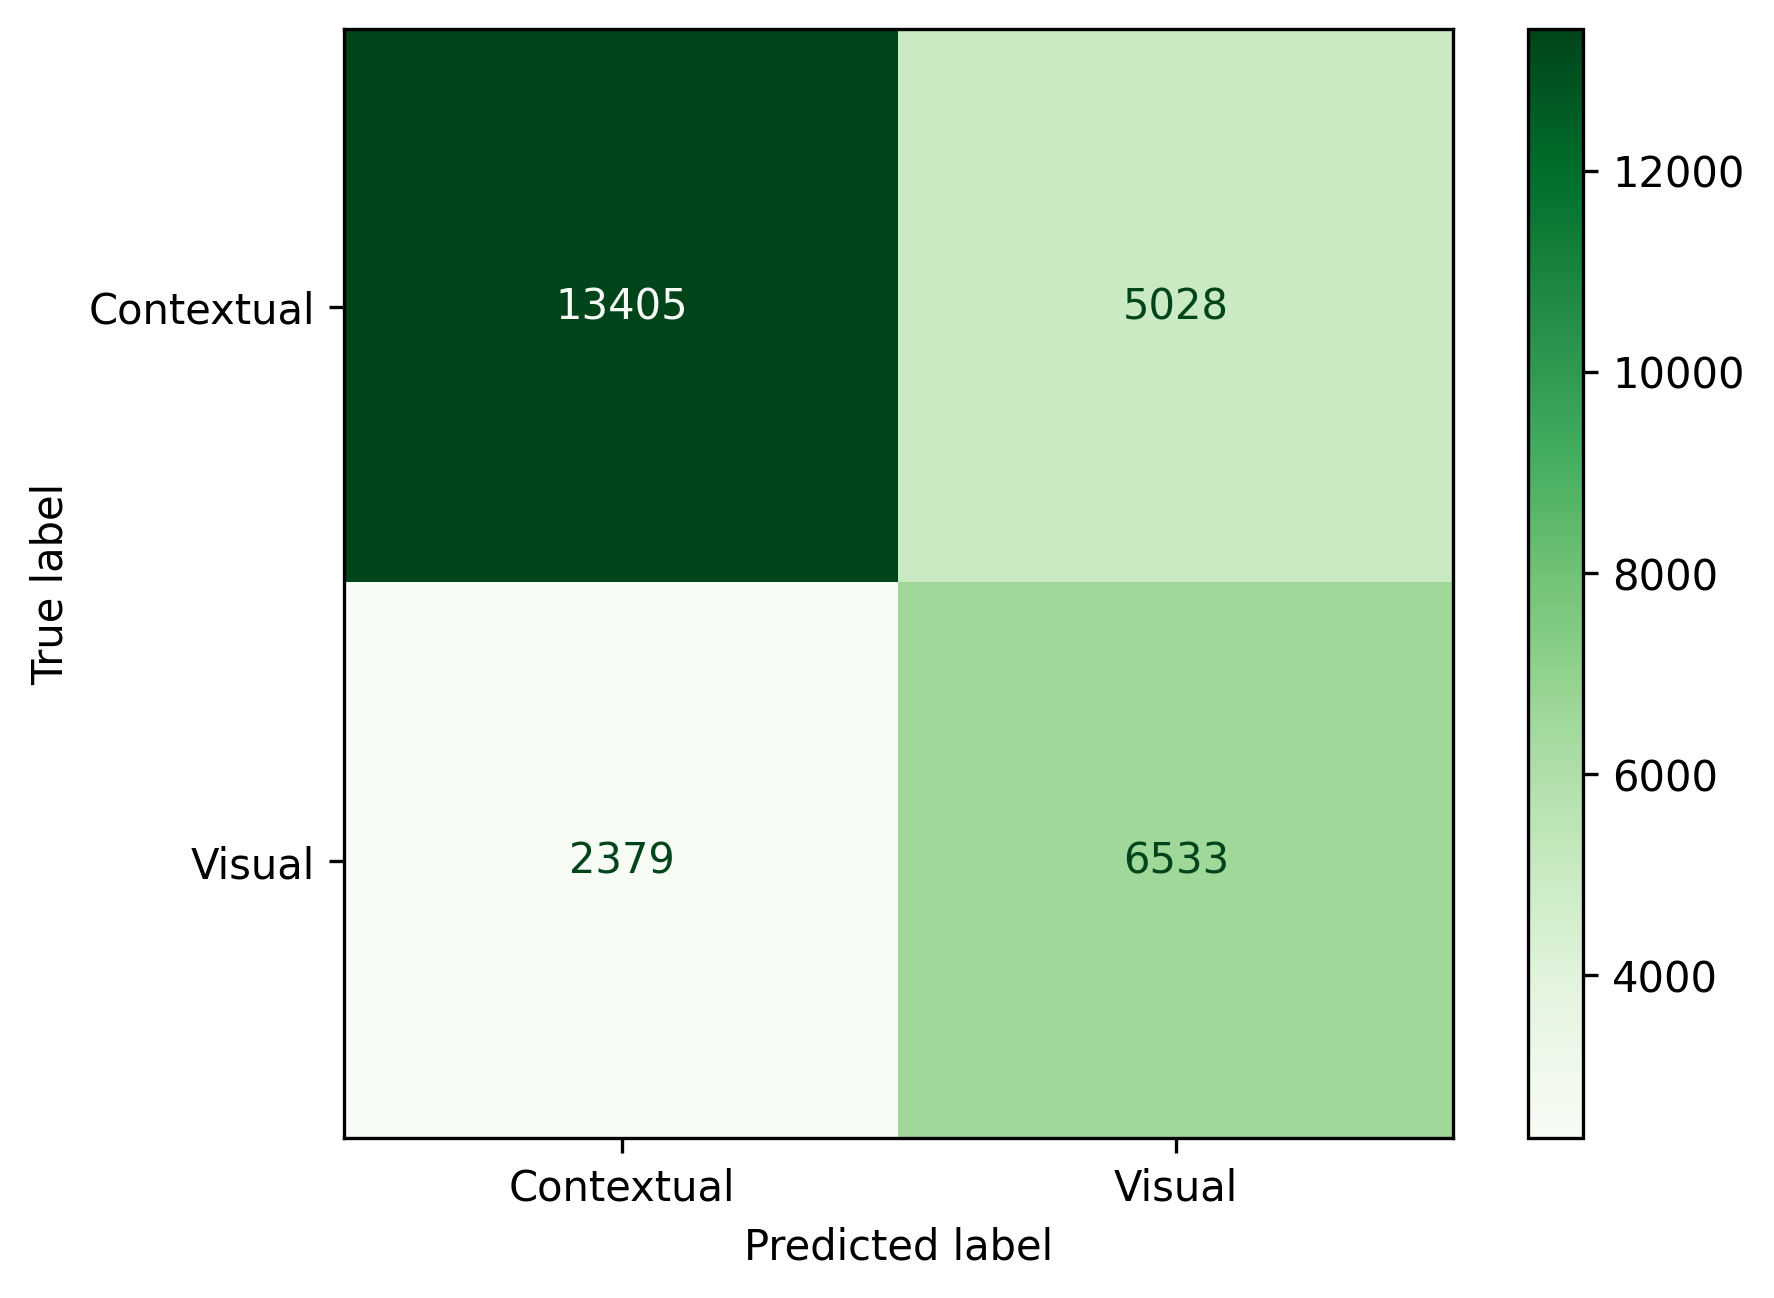
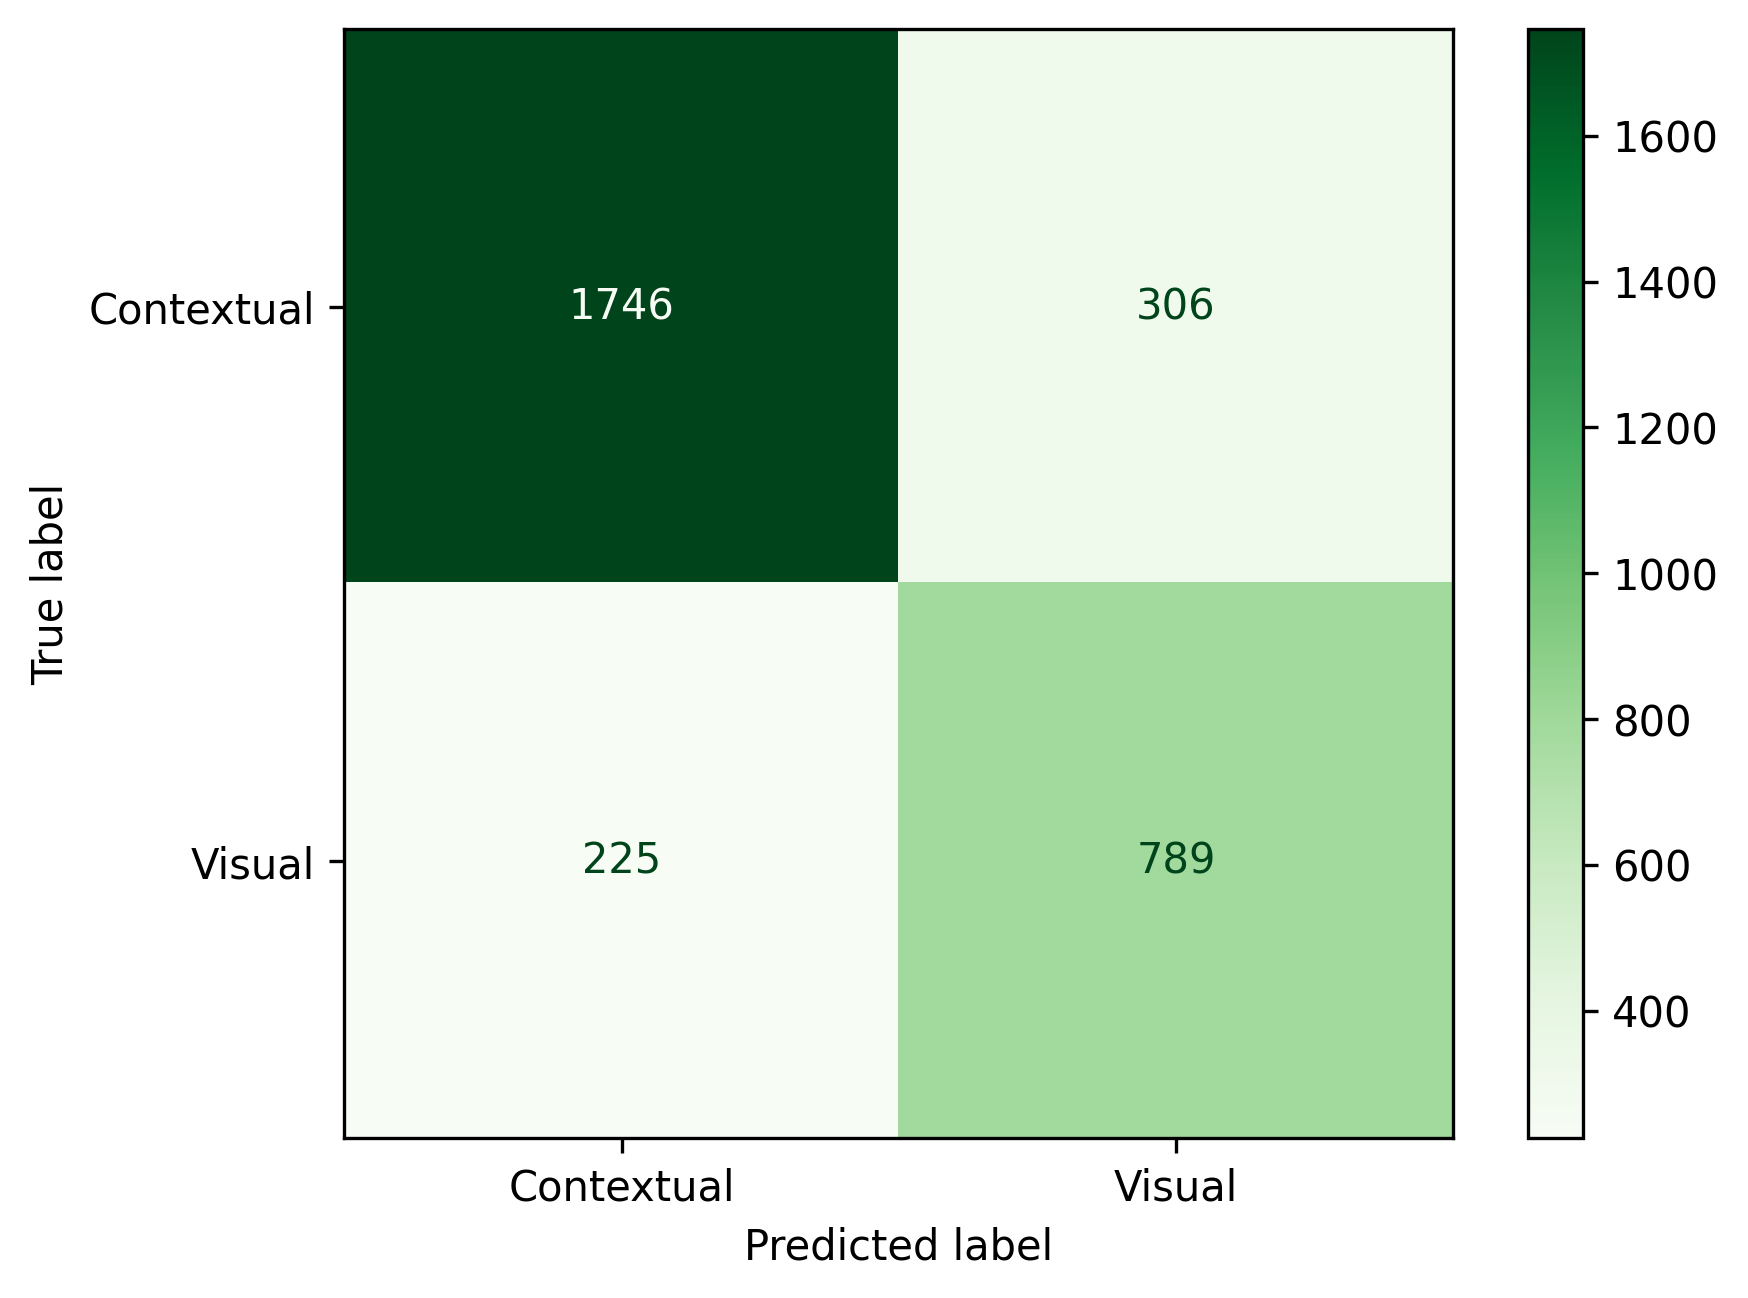
Further classification experiment optimizations, also added baseline for comparison

diff --git a/src/classification_experiment.py b/src/classification_experiment.py
@@ -5,28 +5,39 @@ import sys
 import csv
 import os
 import matplotlib.pyplot as plt
+from VisualContextualClassifier import VisualContextualClassifier
 from tqdm import tqdm
 from sklearn.metrics import f1_score, accuracy_score, confusion_matrix, ConfusionMatrixDisplay
+
+RUN_BASELINE = False # True will also run baseline classifier, False is just LLM
 
 dataset_path = sys.argv[1]
 if not os.path.exists(dataset_path):
    raise OSError(f"Dataset path {dataset_path} does not exist")
 classifier_8B = classifier("meta-llama/Llama-3.1-8B-Instruct", torch_dtype=torch.bfloat16, device_map="auto")
+baseline_classifier = VisualContextualClassifier() if RUN_BASELINE else None
 
 with open(dataset_path, "r", encoding='utf-8') as f:
     dataset = json.load(f)
+dataset = [entry for entry in dataset.values() if entry.get('split') == 'test']
 
 # generate true/pred
 y_true = []
 y_pred = []
-for id, data in tqdm(dataset.items(), desc="Image captions classified"):
+baseline_y_pred = []
+for data in tqdm(dataset, desc="Image captions classified"):
     predictions = classifier_8B.classify(data["visual_sentences"] + data["contextual_sentences"])
     y_true += [1] * len(data["visual_sentences"]) + [0] * len(data["contextual_sentences"])
     y_pred += predictions
+    if RUN_BASELINE:
+        for sentence in data["visual_sentences"] + data["contextual_sentences"]:
+            b_pred = baseline_classifier.predict(sentence)
+            baseline_y_pred.append(1 if max(b_pred, key=b_pred.get) == "visual" else 0)
 
-# eval
+
 output_path = os.path.join("results", "classification_experiment")
 
+# eval
 f1 = f1_score(y_true, y_pred)
 accuracy = accuracy_score(y_true, y_pred)
 with open(os.path.join(output_path, "eval.csv"), "w", newline="") as f2:
@@ -39,5 +50,22 @@ cm = confusion_matrix(y_true, y_pred)
 cm_display = ConfusionMatrixDisplay(confusion_matrix=cm, display_labels=["Contextual", "Visual"])
 cm_display.plot(cmap=plt.cm.Greens)
 plt.savefig(os.path.join(output_path, "confusion_matrix.png"), dpi=300, bbox_inches="tight")
+
+# baseline eval
+if RUN_BASELINE:
+    f1_b = f1_score(y_true, baseline_y_pred)
+    accuracy_b = accuracy_score(y_true, baseline_y_pred)
+
+    with open(os.path.join(output_path, "baseline_eval.csv"), "w", newline="") as f3:
+        writer = csv.writer(f3)
+        writer.writerow(["Metric", "Value"])
+        writer.writerow(["Accuracy", accuracy_b])
+        writer.writerow(["F1 Score", f1_b])
+
+    cm_b = confusion_matrix(y_true, baseline_y_pred)
+    cm_display_b = ConfusionMatrixDisplay(confusion_matrix=cm_b, display_labels=["Contextual", "Visual"])
+    cm_display_b.plot(cmap=plt.cm.Blues)
+    plt.savefig(os.path.join(output_path, "baseline_confusion_matrix.png"), dpi=300, bbox_inches="tight")
+
 
 

diff --git a/src/visual_contextual_classifier.py b/src/visual_contextual_classifier.py
@@ -6,7 +6,25 @@ ACCESS_TOKEN = os.getenv("ACCESS_TOKEN")
 DEFAULT_PROMPT = [
     {"role": "system",
         "content": (
-        "You are a painting description classifier that outputs ONLY the number '1' or '0'. Output '1' if the description the user gives you contains primarily visual details about the painting. If it doesn't, output '0'.")},
+        "You are a painting caption classifier that outputs ONLY the number '1' or '0'. " 
+        "Output '1' if the caption the user gives you contains mostly details of visual contents within the painting. "
+        "Output '0' if the caption the user gives you contains mostly details of context that isn't describing visual details in the painting.")},
+
+    {"role": "user", 
+        "content": (
+        "She's sitting on a seat covered with a rich drape acting as carpet too, and she has on her knees an open book, symbol of the happening Scriptures.")},
+
+    {"role": "assistant",
+        "content": (
+        "1")},
+
+    {"role": "user", 
+        "content": (
+        "Nor did it emphasise the significance of the manuscript or the rough manner in which Christ seems to energetically leaf through it, his play watched on by a near-indulgent Mary.")},
+
+    {"role": "assistant",
+        "content": (
+        "0")},
 
     {"role": "user", 
         "content": "<insert sentence>"}
@@ -81,9 +99,9 @@ class classifier:
         prompts = []
         for i in range(len(sentences)):
             if extra_instruct:
-                self.prompt[1]["content"] = extra_instruct.format(sentence=sentences[i])
+                self.prompt[-1]["content"] = extra_instruct.format(sentence=sentences[i])
             else:
-                self.prompt[1]["content"] = sentences[i]
+                self.prompt[-1]["content"] = sentences[i]
             prompts.append(self.tokenizer.apply_chat_template(self.prompt, add_generation_prompt=True, tokenize=False))
 
         return prompts
